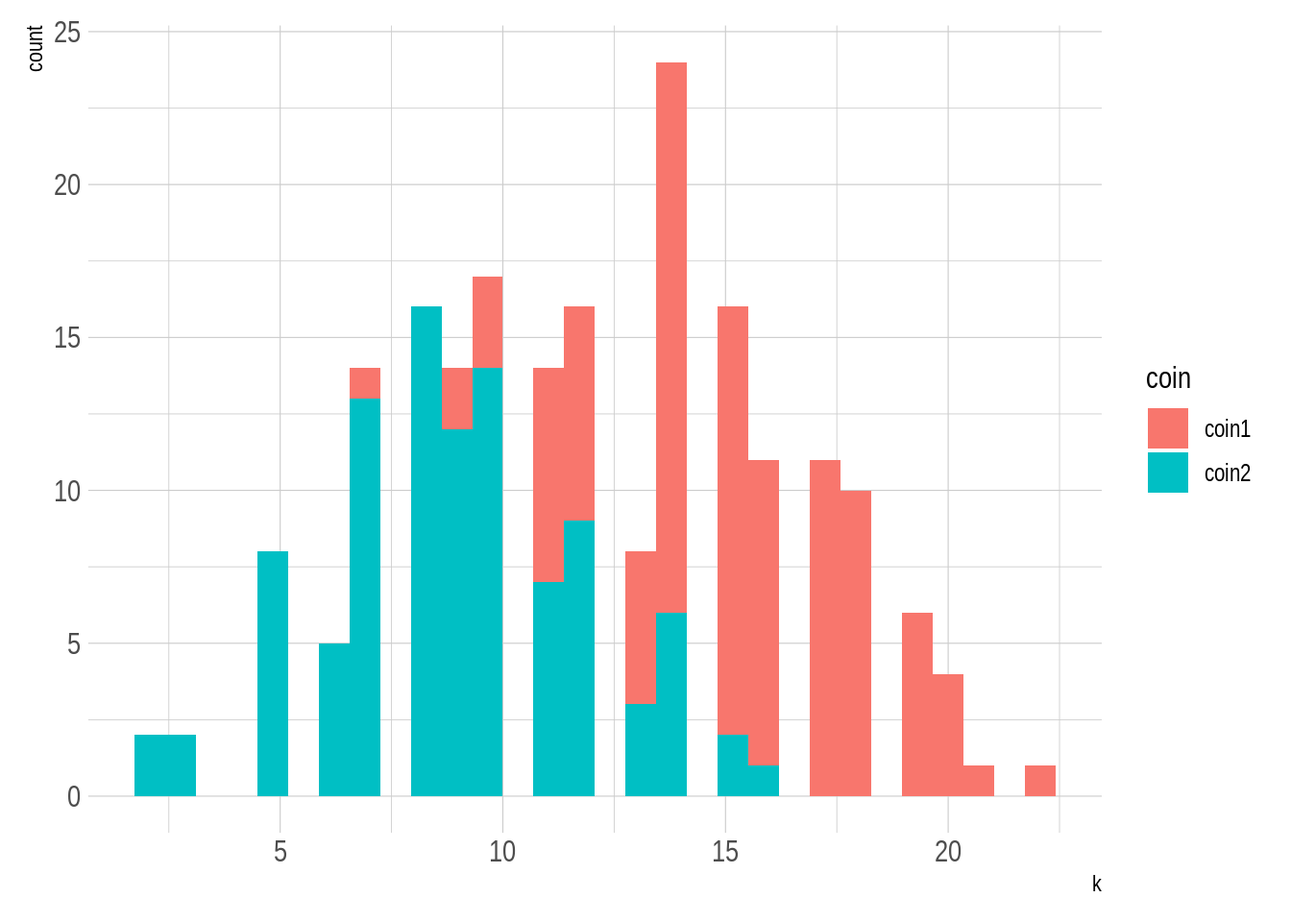
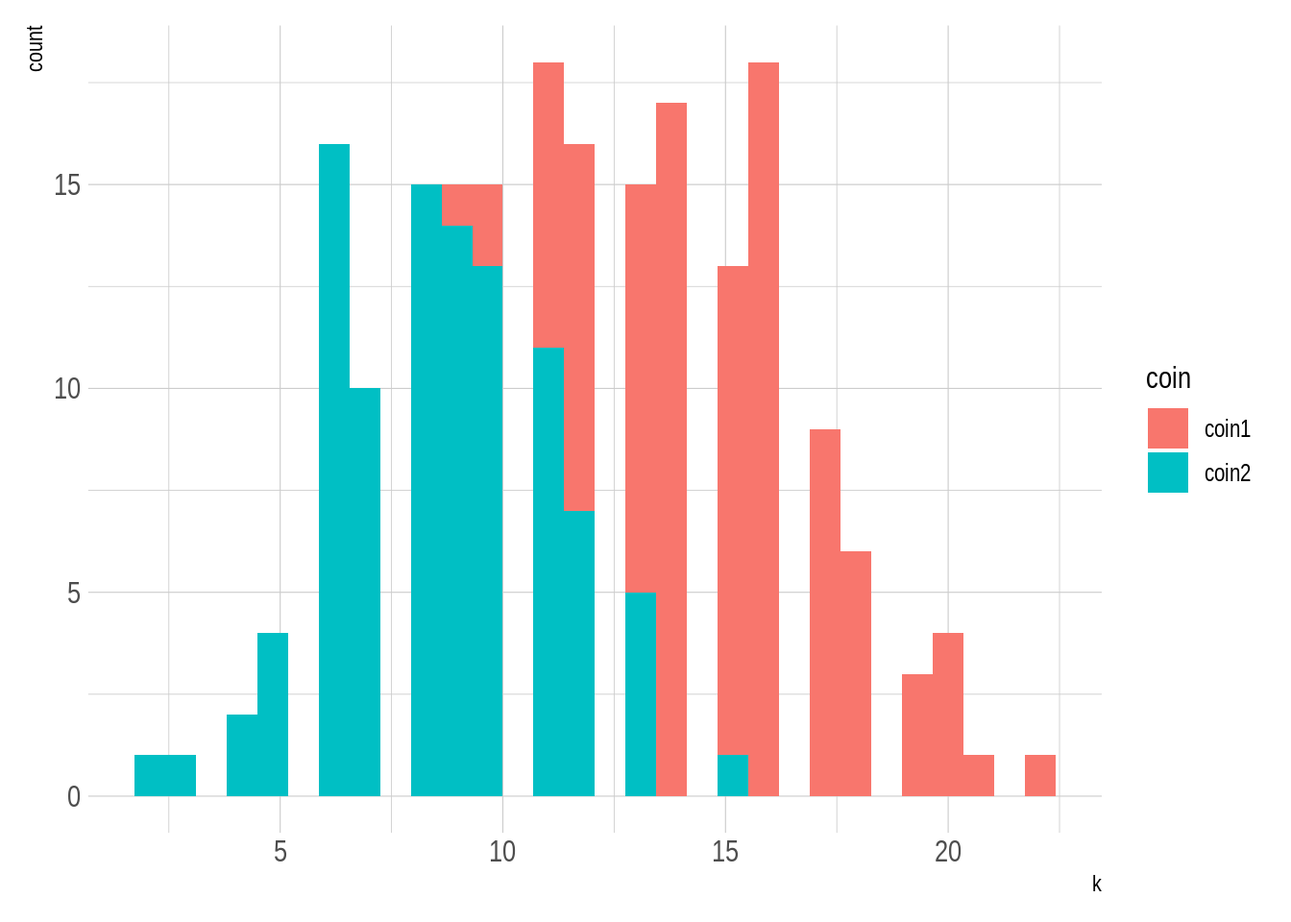
Deploy michael-franke/intro-data-analysis to github.com/michael-franke/intro-data-analysis.git:gh-pages

diff --git a/basics-of-probability-theory.html b/basics-of-probability-theory.html
@@ -144,6 +144,14 @@ code span.wa { color: #bf0303; } /* Warning */
 <li class="chapter" data-level="3" data-path="basics-of-probability-theory.html"><a href="basics-of-probability-theory.html"><i class="fa fa-check"></i><b>3</b> Basics of Probability Theory</a><ul>
 <li class="chapter" data-level="3.1" data-path="basics-of-probability-theory.html"><a href="basics-of-probability-theory.html#probability"><i class="fa fa-check"></i><b>3.1</b> Probability</a><ul>
 <li class="chapter" data-level="3.1.1" data-path="basics-of-probability-theory.html"><a href="basics-of-probability-theory.html#outcomes-events-observations"><i class="fa fa-check"></i><b>3.1.1</b> Outcomes, events, observations</a></li>
+<li class="chapter" data-level="3.1.2" data-path="basics-of-probability-theory.html"><a href="basics-of-probability-theory.html#probability-distributions"><i class="fa fa-check"></i><b>3.1.2</b> Probability distributions</a></li>
+<li class="chapter" data-level="3.1.3" data-path="basics-of-probability-theory.html"><a href="basics-of-probability-theory.html#interpretations-of-probability"><i class="fa fa-check"></i><b>3.1.3</b> Interpretations of probability</a></li>
+<li class="chapter" data-level="3.1.4" data-path="basics-of-probability-theory.html"><a href="basics-of-probability-theory.html#urns-and-frequencies"><i class="fa fa-check"></i><b>3.1.4</b> Urns and frequencies</a></li>
+</ul></li>
+<li class="chapter" data-level="3.2" data-path="basics-of-probability-theory.html"><a href="basics-of-probability-theory.html#structured-events-marginal-distributions"><i class="fa fa-check"></i><b>3.2</b> Structured events &amp; marginal distributions</a><ul>
+<li class="chapter" data-level="3.2.1" data-path="basics-of-probability-theory.html"><a href="basics-of-probability-theory.html#probability-table-for-a-flip--draw-scenario"><i class="fa fa-check"></i><b>3.2.1</b> Probability table for a flip-&amp;-draw scenario</a></li>
+<li class="chapter" data-level="3.2.2" data-path="basics-of-probability-theory.html"><a href="basics-of-probability-theory.html#structured-events-and-joint-probability-distributions"><i class="fa fa-check"></i><b>3.2.2</b> Structured events and joint-probability distributions</a></li>
+<li class="chapter" data-level="3.2.3" data-path="basics-of-probability-theory.html"><a href="basics-of-probability-theory.html#marginalization"><i class="fa fa-check"></i><b>3.2.3</b> Marginalization</a></li>
 </ul></li>
 </ul></li>
 <li class="chapter" data-level="4" data-path="part-4-models.html"><a href="part-4-models.html"><i class="fa fa-check"></i><b>4</b> Part 4: Models</a><ul>
@@ -208,7 +216,7 @@ continuous, expected values &amp; variance, examples.</p>
 <h2><span class="header-section-number">3.1</span> Probability</h2>
 <div id="outcomes-events-observations" class="section level3">
 <h3><span class="header-section-number">3.1.1</span> Outcomes, events, observations</h3>
-<p>We are interested in the space <span class="math inline">\(\Omega\)</span> of all <em>elementary outcome</em> <span class="math inline">\(\omega_1, \omega_2, \dots\)</span> of a process or event whose execution is (partially) random or
+<p>We are interested in the space <span class="math inline">\(\Omega\)</span> of all <strong>elementary outcome</strong> <span class="math inline">\(\omega_1, \omega_2, \dots\)</span> of a process or event whose execution is (partially) random or
 unknown. Elementary outcomes are mutually exclusive. The set <span class="math inline">\(\Omega\)</span> exhausts all
 possibilities.<a href="#fn1" class="footnote-ref" id="fnref1"><sup>1</sup></a></p>
 <div style="background-color:lightgray">
@@ -216,6 +224,119 @@ possibilities.<a href="#fn1" class="footnote-ref" id="fnref1"><sup>1</sup></a></
 <span class="math inline">\(\Omega_{\text{standard die}} = \{\)</span> ⚀ , ⚁ , ⚂ , ⚃ ,
 ⚄ , ⚅ <span class="math inline">\(\}\)</span>.<a href="#fn2" class="footnote-ref" id="fnref2"><sup>2</sup></a></p>
 </div>
+<p>An <strong>event</strong> <span class="math inline">\(A\)</span> is a subset of <span class="math inline">\(\Omega\)</span>. Think of an event as a (possibly partial)
+observation. We might observe, for instance, not the full outcome of tossing a die, but only
+that there is a dot in the middle. This would correspond to the event
+<span class="math inline">\(A = \{\)</span> ⚀ , ⚂ , ⚄ <span class="math inline">\(\}\)</span>,
+i.e., observing an odd numbered outcome. The <em>trivial observation</em> <span class="math inline">\(A = \Omega\)</span> and the
+<em>impossible observation</em> <span class="math inline">\(A = \emptyset\)</span> are counted as events, too. The latter is included for
+technical reasons.</p>
+<p>For any two events <span class="math inline">\(A, B \subseteq \Omega\)</span>, standard set operations correspond to logical
+connections in the usual way. For example, the conjunction <span class="math inline">\(A \cap B\)</span> is the observation of
+both <span class="math inline">\(A\)</span> and <span class="math inline">\(B\)</span>; the disjunction <span class="math inline">\(A \cup B\)</span> is the observation that it is either <span class="math inline">\(A\)</span> or <span class="math inline">\(B\)</span>;
+the negation of <span class="math inline">\(A\)</span>, <span class="math inline">\(\overline{A} = \left \{ \omega \in \Omega \mid \omega \not \in A \right \}\)</span>, is the
+observation that it is not <span class="math inline">\(A\)</span>.</p>
+</div>
+<div id="probability-distributions" class="section level3">
+<h3><span class="header-section-number">3.1.2</span> Probability distributions</h3>
+<p>A <strong>probability distribution</strong> <span class="math inline">\(P\)</span> over <span class="math inline">\(\Omega\)</span> is a function
+<span class="math inline">\(P \ \colon \ \mathfrak{P}(\Omega) \rightarrow \mathbb{R}\)</span> that assigns to all events
+<span class="math inline">\(A \subseteq \Omega\)</span> a real number (from the unit interval, see A1 below), such that the following (so-called Kolmogorov axioms) are satisfied:</p>
+<p>A1. <span class="math inline">\(0 \le P(A) \le 1\)</span></p>
+<p>A2. <span class="math inline">\(P(\Omega) = 1\)</span></p>
+<p>A3. $P(A_1 A_2 A_3 ) = P(A_1) + P(A_2) + P(A_3) + $ whenever <span class="math inline">\(A_1, A_2, A_3, \dots\)</span> are mutually exclusive<a href="#fn3" class="footnote-ref" id="fnref3"><sup>3</sup></a></p>
+<p>Occasionally we encounter notation <span class="math inline">\(P \in \Delta(\Omega)\)</span> to express that <span class="math inline">\(P\)</span> is a probability
+distribution over <span class="math inline">\(\Omega\)</span>. (E.g., in physics, theoretical economics or game
+theory. Less so in psychology or statistics.) If <span class="math inline">\(\omega \in \Omega\)</span> is an elementary event,
+we often write <span class="math inline">\(P(\omega)\)</span> as a shorthand for <span class="math inline">\(P(\left \{ \omega \right \})\)</span>. In fact, if <span class="math inline">\(\Omega\)</span> is
+finite, it suffices to assign probabilities to elementary outcomes.</p>
+<p>A number of rules follow immediately from of this definition (prove this!):</p>
+<p>C1. <span class="math inline">\(P(\emptyset) = 0\)</span></p>
+<p>C2. <span class="math inline">\(P(\overline{A}) = 1 - P(A)\)</span></p>
+<p>C3. <span class="math inline">\(P(A \cup B) = P(A) + P(B) - P(A \cap B)\)</span> for any <span class="math inline">\(A, B \subseteq \Omega\)</span></p>
+</div>
+<div id="interpretations-of-probability" class="section level3">
+<h3><span class="header-section-number">3.1.3</span> Interpretations of probability</h3>
+<p>It is reasonably safe, at least preliminarily, to think of probability, as defined above, as a
+handy mathematical primitive which is useful for certain applications. There are at least three
+ways of thinking about where this primitive probability might come from, roughly paraphrasable
+like so:</p>
+<ol style="list-style-type: decimal">
+<li><strong>Frequentist:</strong> Probabilities are generalizations of intuitions/facts about frequencies of events in
+repeated executions of a random event.</li>
+<li><strong>Subjectivist:</strong> Probabilities are subjective beliefs by a rational agent who is
+uncertain about the outcome of a random event.</li>
+<li><strong>Realist:</strong> Probabilities are a property of an intrinsically random world.</li>
+</ol>
+</div>
+<div id="urns-and-frequencies" class="section level3">
+<h3><span class="header-section-number">3.1.4</span> Urns and frequencies</h3>
+<p>Think of an urn as a container which contains a number of <span class="math inline">\(N &gt; 1\)</span> balls. Balls can be of
+different color. For example, let us suppose that our urn has <span class="math inline">\(k &gt; 0\)</span> black balls and <span class="math inline">\(N-k\)</span>
+white balls. (There is at least one black and one white ball.) For a single random draw from
+our urn we have: <span class="math inline">\(\Omega_{\text{our urn}} = \left \{ \text{white}, \text{black} \right \}\)</span>. If we imagine an
+infinite sequence of single draws from our urn, putting whichever ball we drew back in after
+every draw, the limiting proportion with which we draw a black ball is
+<span class="math inline">\(\frac{k}{N}\)</span>. (If in doubt, execute this experiment. By hand or by computer.) This
+statement about frequency is what motivates saying that the probability of drawing a black ball
+on a single trial is (or should be<a href="#fn4" class="footnote-ref" id="fnref4"><sup>4</sup></a>)
+<span class="math inline">\(P(\text{black}) = \frac{k}{N}\)</span>.</p>
+</div>
+</div>
+<div id="structured-events-marginal-distributions" class="section level2">
+<h2><span class="header-section-number">3.2</span> Structured events &amp; marginal distributions</h2>
+<div id="probability-table-for-a-flip--draw-scenario" class="section level3">
+<h3><span class="header-section-number">3.2.1</span> Probability table for a flip-&amp;-draw scenario</h3>
+<p>Suppose we have two urns. Both have <span class="math inline">\(N=10\)</span> balls. Urn 1 has <span class="math inline">\(k_1=2\)</span> black and <span class="math inline">\(N-k_1 = 8\)</span> white
+balls. Urn 2 has <span class="math inline">\(k_2=4\)</span> black and <span class="math inline">\(N-k_2=6\)</span> white balls. We sometimes draw from urn 1,
+sometimes from urn 2. To decide, we flip a fair coin. If it comes up heads, we draw from urn 1;
+if it comes up tails, we draw from urn 2.</p>
+<p>An elementary outcome of this two-step process of flip-&amp;-draw is a pair
+<span class="math inline">\(\langle \text{outcome-flip}, \text{outcome-draw} \rangle\)</span>. The set of all possible such outcomes is
+<span class="math inline">\(\Omega_{\text{flip-&amp;-draw}} = \left \{ \langle \text{heads}, \text{black} \rangle, \langle \text{heads},  \text{white} \rangle, \langle \text{tails}, \text{black} \rangle, \langle \text{tails},  \text{white} \rangle \right \}\)</span>. The probability of event <span class="math inline">\(\langle \text{heads}, \text{black} \rangle\)</span> is given by
+multiplying the probability of seeing “heads” on the first flip, which happens with
+probability <span class="math inline">\(0.5\)</span>, and then drawing a black ball, which happens with probability <span class="math inline">\(0.2\)</span>, so that
+<span class="math inline">\(P(\langle \text{heads}, \text{black} \rangle) = 0.5 \cdot 0.2 = 0.1\)</span>. The probability distribution
+over <span class="math inline">\(\Omega_{\text{flip-draw}}\)</span> is consequently as in
+Table <a href="basics-of-probability-theory.html#tab:flipdrawprobabilities">3.1</a>. (If in doubt, start flipping &amp;
+drawing and count your outcomes.)</p>
+<table>
+<caption><span id="tab:flipdrawprobabilities">Table 3.1: </span>my first table</caption>
+<thead>
+<tr class="header">
+<th></th>
+<th align="left">black</th>
+<th align="left">white</th>
+</tr>
+</thead>
+<tbody>
+<tr class="odd">
+<td>heads</td>
+<td align="left"><span class="math inline">\(0.5 \cdot 0.2 = 0.1\)</span></td>
+<td align="left"><span class="math inline">\(0.5 \cdot 0.4 = 0.2\)</span></td>
+</tr>
+<tr class="even">
+<td>tails</td>
+<td align="left"><span class="math inline">\(0.5 \cdot 0.8 = 0.4\)</span></td>
+<td align="left"><span class="math inline">\(0.5 \cdot 0.6 = 0.3\)</span></td>
+</tr>
+</tbody>
+</table>
+</div>
+<div id="structured-events-and-joint-probability-distributions" class="section level3">
+<h3><span class="header-section-number">3.2.2</span> Structured events and joint-probability distributions</h3>
+<p>Table <a href="basics-of-probability-theory.html#tab:flipdrawprobabilities">3.1</a> is an example of a <strong>joint probability distribution</strong> over a structured event space, which here has two dimensions. Since
+our space of outcomes is the Cartesian product of two simpler outcome spaces, namely
+<span class="math inline">\(\Omega_{flip-\&amp;-draw} = \Omega_{flip} \times \Omega_{draw}\)</span>,<a href="#fn5" class="footnote-ref" id="fnref5"><sup>5</sup></a> we can use notation
+<span class="math inline">\(P(\text{heads}, \text{black})\)</span> as shorthand for <span class="math inline">\(P(\langle \text{heads}, \text{black} \rangle)\)</span>. More
+generally, if <span class="math inline">\(\Omega = \Omega_1 \times \dots \Omega_n\)</span>, we can think of <span class="math inline">\(P \in \Delta(\Omega)\)</span>
+as a joint probability distribution over <span class="math inline">\(n\)</span> subspaces.</p>
+</div>
+<div id="marginalization" class="section level3">
+<h3><span class="header-section-number">3.2.3</span> Marginalization</h3>
+<p>If <span class="math inline">\(P\)</span> is a joint-probability distribution over event space <span class="math inline">\(\Omega = \Omega_1 \times \dots \Omega_n\)</span>, the <strong>marginal distribution</strong> over subspace <span class="math inline">\(\Omega_i\)</span>, <span class="math inline">\(1 \le i \le n\)</span> is the probability distribution that assigns to all <span class="math inline">\(A_i \subseteq \Omega_i\)</span> the probability:<a href="#fn6" class="footnote-ref" id="fnref6"><sup>6</sup></a></p>
+<p><span class="math display">\[  P(A_i) = \sum_{A_1 \subseteq \Omega_{1}, \dots , A_{i-1} \subseteq \Omega_{i-1}, A_{i+1} \subseteq \Omega_{i+1}, \dots, A_n \subseteq \Omega_n} P(A_1, \dots, A_{i-1}, A_{i}, A_{i+1}, \dots A_n) \]</span></p>
+<p>For example, the marginal distribution over coin flips derivable from the joint probability distribution in Table <a href="basics-of-probability-theory.html#tab:flipdrawprobabilities">3.1</a> gives <span class="math inline">\(P(\text{heads}) = P(\text{tails}) = 0.5\)</span>, since the sum of each row is exactly <span class="math inline">\(0.5\)</span>. The marginal distribution over flips derivable from Table~ has <span class="math inline">\(P(\text{black}) = 0.3\)</span> and <span class="math inline">\(P(\text{black}) = 0.7\)</span>.<a href="#fn7" class="footnote-ref" id="fnref7"><sup>7</sup></a></p>
 
 </div>
 </div>
@@ -234,6 +355,14 @@ interested in. We do not care whether the coin lands in the mud or in the sand. 
 matters whether it came up heads or tails. Each elementary event can be realized in myriad
 ways. <span class="math inline">\(\Omega\)</span> is our, the modellers’, first crude simplification of nature, abstracting away aspects we
 currently do not care about.<a href="basics-of-probability-theory.html#fnref2" class="footnote-back">↩</a></p></li>
+<li id="fn3"><p>A3 is the axiom of <em>countable additivity</em>. Finite additivity may be enough for finite or countable sets <span class="math inline">\(\Omega\)</span>, but infinite additivity is necessary for full generality in the uncountable case.<a href="basics-of-probability-theory.html#fnref3" class="footnote-back">↩</a></p></li>
+<li id="fn4"><p>If probabilities are subjective beliefs, a rational
+agent is, in a sense, normatively required to assign exactly this probability.<a href="basics-of-probability-theory.html#fnref4" class="footnote-back">↩</a></p></li>
+<li id="fn5"><p>With
+<span class="math inline">\(\Omega_{\text{flip}} = \left \{ \text{heads}, \text{tails} \right \}\)</span> and
+<span class="math inline">\(\Omega_{\text{draw}} = \left \{ \text{black}, \text{white} \right \}\)</span>.<a href="basics-of-probability-theory.html#fnref5" class="footnote-back">↩</a></p></li>
+<li id="fn6"><p>This notation, using <span class="math inline">\(\sum\)</span>, assumes that subspaces are countable. In other cases, a parallel definition with integrals can be used.<a href="basics-of-probability-theory.html#fnref6" class="footnote-back">↩</a></p></li>
+<li id="fn7"><p>The term ``marginal distribution’’ derives from such probability tables, where traditionally the sum of each row/column was written in the margins.<a href="basics-of-probability-theory.html#fnref7" class="footnote-back">↩</a></p></li>
 </ol>
 </div>
             </section>

diff --git a/part-4-models.html b/part-4-models.html
@@ -144,6 +144,14 @@ code span.wa { color: #bf0303; } /* Warning */
 <li class="chapter" data-level="3" data-path="basics-of-probability-theory.html"><a href="basics-of-probability-theory.html"><i class="fa fa-check"></i><b>3</b> Basics of Probability Theory</a><ul>
 <li class="chapter" data-level="3.1" data-path="basics-of-probability-theory.html"><a href="basics-of-probability-theory.html#probability"><i class="fa fa-check"></i><b>3.1</b> Probability</a><ul>
 <li class="chapter" data-level="3.1.1" data-path="basics-of-probability-theory.html"><a href="basics-of-probability-theory.html#outcomes-events-observations"><i class="fa fa-check"></i><b>3.1.1</b> Outcomes, events, observations</a></li>
+<li class="chapter" data-level="3.1.2" data-path="basics-of-probability-theory.html"><a href="basics-of-probability-theory.html#probability-distributions"><i class="fa fa-check"></i><b>3.1.2</b> Probability distributions</a></li>
+<li class="chapter" data-level="3.1.3" data-path="basics-of-probability-theory.html"><a href="basics-of-probability-theory.html#interpretations-of-probability"><i class="fa fa-check"></i><b>3.1.3</b> Interpretations of probability</a></li>
+<li class="chapter" data-level="3.1.4" data-path="basics-of-probability-theory.html"><a href="basics-of-probability-theory.html#urns-and-frequencies"><i class="fa fa-check"></i><b>3.1.4</b> Urns and frequencies</a></li>
+</ul></li>
+<li class="chapter" data-level="3.2" data-path="basics-of-probability-theory.html"><a href="basics-of-probability-theory.html#structured-events-marginal-distributions"><i class="fa fa-check"></i><b>3.2</b> Structured events &amp; marginal distributions</a><ul>
+<li class="chapter" data-level="3.2.1" data-path="basics-of-probability-theory.html"><a href="basics-of-probability-theory.html#probability-table-for-a-flip--draw-scenario"><i class="fa fa-check"></i><b>3.2.1</b> Probability table for a flip-&amp;-draw scenario</a></li>
+<li class="chapter" data-level="3.2.2" data-path="basics-of-probability-theory.html"><a href="basics-of-probability-theory.html#structured-events-and-joint-probability-distributions"><i class="fa fa-check"></i><b>3.2.2</b> Structured events and joint-probability distributions</a></li>
+<li class="chapter" data-level="3.2.3" data-path="basics-of-probability-theory.html"><a href="basics-of-probability-theory.html#marginalization"><i class="fa fa-check"></i><b>3.2.3</b> Marginalization</a></li>
 </ul></li>
 </ul></li>
 <li class="chapter" data-level="4" data-path="part-4-models.html"><a href="part-4-models.html"><i class="fa fa-check"></i><b>4</b> Part 4: Models</a><ul>
@@ -298,15 +306,15 @@ A prior is a initial probability assignment for each possible value of the param
 <pre><code>## # A tibble: 10 x 3
 ##        n     k     x
 ##    &lt;dbl&gt; &lt;dbl&gt; &lt;dbl&gt;
-##  1     1    13    30
-##  2     2    16    30
-##  3     3    12    30
-##  4     4    16    30
-##  5     5    15    30
-##  6     6    14    30
-##  7     7    18    30
-##  8     8    13    30
-##  9     9    19    30
+##  1     1    12    30
+##  2     2    12    30
+##  3     3    16    30
+##  4     4    18    30
+##  5     5    17    30
+##  6     6    13    30
+##  7     7    13    30
+##  8     8    14    30
+##  9     9    11    30
 ## 10    10    16    30</code></pre>
 <p>The above table shows the observed outcome, but how the underlying probability of coming up  can be derived from that data set?</p>
 </div>
@@ -475,16 +483,16 @@ Consider now, that a second coin <span class="math inline">\(y_2\)</span> is int
 <pre><code>## # A tibble: 200 x 4
 ##    coin      n     k     x
 ##    &lt;chr&gt; &lt;dbl&gt; &lt;dbl&gt; &lt;dbl&gt;
-##  1 coin1     1    20    30
-##  2 coin1     2    14    30
-##  3 coin1     3    17    30
-##  4 coin1     4    19    30
-##  5 coin1     5    17    30
-##  6 coin1     6    10    30
-##  7 coin1     7    14    30
-##  8 coin1     8    14    30
-##  9 coin1     9    16    30
-## 10 coin1    10    19    30
+##  1 coin1     1    13    30
+##  2 coin1     2    19    30
+##  3 coin1     3     9    30
+##  4 coin1     4    15    30
+##  5 coin1     5    15    30
+##  6 coin1     6    16    30
+##  7 coin1     7    18    30
+##  8 coin1     8    15    30
+##  9 coin1     9    18    30
+## 10 coin1    10    18    30
 ## # … with 190 more rows</code></pre>
 <div class="sourceCode" id="cb9"><pre class="sourceCode r"><code class="sourceCode r"><a class="sourceLine" id="cb9-1" data-line-number="1"><span class="co">#Plotting the observed results</span></a>
 <a class="sourceLine" id="cb9-2" data-line-number="2"><span class="kw">ggplot</span>(<span class="dt">data=</span>coin.flip2,<span class="dt">mapping =</span> <span class="kw">aes</span>(<span class="dt">x=</span>k, <span class="dt">fill=</span>coin ))<span class="op">+</span></a>

diff --git a/index.html b/index.html
@@ -144,6 +144,14 @@ code span.wa { color: #bf0303; } /* Warning */
 <li class="chapter" data-level="3" data-path="basics-of-probability-theory.html"><a href="basics-of-probability-theory.html"><i class="fa fa-check"></i><b>3</b> Basics of Probability Theory</a><ul>
 <li class="chapter" data-level="3.1" data-path="basics-of-probability-theory.html"><a href="basics-of-probability-theory.html#probability"><i class="fa fa-check"></i><b>3.1</b> Probability</a><ul>
 <li class="chapter" data-level="3.1.1" data-path="basics-of-probability-theory.html"><a href="basics-of-probability-theory.html#outcomes-events-observations"><i class="fa fa-check"></i><b>3.1.1</b> Outcomes, events, observations</a></li>
+<li class="chapter" data-level="3.1.2" data-path="basics-of-probability-theory.html"><a href="basics-of-probability-theory.html#probability-distributions"><i class="fa fa-check"></i><b>3.1.2</b> Probability distributions</a></li>
+<li class="chapter" data-level="3.1.3" data-path="basics-of-probability-theory.html"><a href="basics-of-probability-theory.html#interpretations-of-probability"><i class="fa fa-check"></i><b>3.1.3</b> Interpretations of probability</a></li>
+<li class="chapter" data-level="3.1.4" data-path="basics-of-probability-theory.html"><a href="basics-of-probability-theory.html#urns-and-frequencies"><i class="fa fa-check"></i><b>3.1.4</b> Urns and frequencies</a></li>
+</ul></li>
+<li class="chapter" data-level="3.2" data-path="basics-of-probability-theory.html"><a href="basics-of-probability-theory.html#structured-events-marginal-distributions"><i class="fa fa-check"></i><b>3.2</b> Structured events &amp; marginal distributions</a><ul>
+<li class="chapter" data-level="3.2.1" data-path="basics-of-probability-theory.html"><a href="basics-of-probability-theory.html#probability-table-for-a-flip--draw-scenario"><i class="fa fa-check"></i><b>3.2.1</b> Probability table for a flip-&amp;-draw scenario</a></li>
+<li class="chapter" data-level="3.2.2" data-path="basics-of-probability-theory.html"><a href="basics-of-probability-theory.html#structured-events-and-joint-probability-distributions"><i class="fa fa-check"></i><b>3.2.2</b> Structured events and joint-probability distributions</a></li>
+<li class="chapter" data-level="3.2.3" data-path="basics-of-probability-theory.html"><a href="basics-of-probability-theory.html#marginalization"><i class="fa fa-check"></i><b>3.2.3</b> Marginalization</a></li>
 </ul></li>
 </ul></li>
 <li class="chapter" data-level="4" data-path="part-4-models.html"><a href="part-4-models.html"><i class="fa fa-check"></i><b>4</b> Part 4: Models</a><ul>
@@ -200,7 +208,7 @@ code span.wa { color: #bf0303; } /* Warning */
             <section class="normal" id="section-">
 <div id="header">
 <h1 class="title">Introduction to Data Analysis</h1>
-<p class="date"><em>last rendered at: 2019-09-20 19:53:59</em></p>
+<p class="date"><em>last rendered at: 2019-09-21 14:30:19</em></p>
 </div>
 <div id="preface" class="section level1 unnumbered">
 <h1>Preface</h1>

diff --git a/references.html b/references.html
@@ -144,6 +144,14 @@ code span.wa { color: #bf0303; } /* Warning */
 <li class="chapter" data-level="3" data-path="basics-of-probability-theory.html"><a href="basics-of-probability-theory.html"><i class="fa fa-check"></i><b>3</b> Basics of Probability Theory</a><ul>
 <li class="chapter" data-level="3.1" data-path="basics-of-probability-theory.html"><a href="basics-of-probability-theory.html#probability"><i class="fa fa-check"></i><b>3.1</b> Probability</a><ul>
 <li class="chapter" data-level="3.1.1" data-path="basics-of-probability-theory.html"><a href="basics-of-probability-theory.html#outcomes-events-observations"><i class="fa fa-check"></i><b>3.1.1</b> Outcomes, events, observations</a></li>
+<li class="chapter" data-level="3.1.2" data-path="basics-of-probability-theory.html"><a href="basics-of-probability-theory.html#probability-distributions"><i class="fa fa-check"></i><b>3.1.2</b> Probability distributions</a></li>
+<li class="chapter" data-level="3.1.3" data-path="basics-of-probability-theory.html"><a href="basics-of-probability-theory.html#interpretations-of-probability"><i class="fa fa-check"></i><b>3.1.3</b> Interpretations of probability</a></li>
+<li class="chapter" data-level="3.1.4" data-path="basics-of-probability-theory.html"><a href="basics-of-probability-theory.html#urns-and-frequencies"><i class="fa fa-check"></i><b>3.1.4</b> Urns and frequencies</a></li>
+</ul></li>
+<li class="chapter" data-level="3.2" data-path="basics-of-probability-theory.html"><a href="basics-of-probability-theory.html#structured-events-marginal-distributions"><i class="fa fa-check"></i><b>3.2</b> Structured events &amp; marginal distributions</a><ul>
+<li class="chapter" data-level="3.2.1" data-path="basics-of-probability-theory.html"><a href="basics-of-probability-theory.html#probability-table-for-a-flip--draw-scenario"><i class="fa fa-check"></i><b>3.2.1</b> Probability table for a flip-&amp;-draw scenario</a></li>
+<li class="chapter" data-level="3.2.2" data-path="basics-of-probability-theory.html"><a href="basics-of-probability-theory.html#structured-events-and-joint-probability-distributions"><i class="fa fa-check"></i><b>3.2.2</b> Structured events and joint-probability distributions</a></li>
+<li class="chapter" data-level="3.2.3" data-path="basics-of-probability-theory.html"><a href="basics-of-probability-theory.html#marginalization"><i class="fa fa-check"></i><b>3.2.3</b> Marginalization</a></li>
 </ul></li>
 </ul></li>
 <li class="chapter" data-level="4" data-path="part-4-models.html"><a href="part-4-models.html"><i class="fa fa-check"></i><b>4</b> Part 4: Models</a><ul>
@@ -225,6 +233,14 @@ code span.wa { color: #bf0303; } /* Warning */
 </div>
 </div>
 </div>
+
+
+
+
+
+
+
+
 
 
 

diff --git a/data.html b/data.html
@@ -144,6 +144,14 @@ code span.wa { color: #bf0303; } /* Warning */
 <li class="chapter" data-level="3" data-path="basics-of-probability-theory.html"><a href="basics-of-probability-theory.html"><i class="fa fa-check"></i><b>3</b> Basics of Probability Theory</a><ul>
 <li class="chapter" data-level="3.1" data-path="basics-of-probability-theory.html"><a href="basics-of-probability-theory.html#probability"><i class="fa fa-check"></i><b>3.1</b> Probability</a><ul>
 <li class="chapter" data-level="3.1.1" data-path="basics-of-probability-theory.html"><a href="basics-of-probability-theory.html#outcomes-events-observations"><i class="fa fa-check"></i><b>3.1.1</b> Outcomes, events, observations</a></li>
+<li class="chapter" data-level="3.1.2" data-path="basics-of-probability-theory.html"><a href="basics-of-probability-theory.html#probability-distributions"><i class="fa fa-check"></i><b>3.1.2</b> Probability distributions</a></li>
+<li class="chapter" data-level="3.1.3" data-path="basics-of-probability-theory.html"><a href="basics-of-probability-theory.html#interpretations-of-probability"><i class="fa fa-check"></i><b>3.1.3</b> Interpretations of probability</a></li>
+<li class="chapter" data-level="3.1.4" data-path="basics-of-probability-theory.html"><a href="basics-of-probability-theory.html#urns-and-frequencies"><i class="fa fa-check"></i><b>3.1.4</b> Urns and frequencies</a></li>
+</ul></li>
+<li class="chapter" data-level="3.2" data-path="basics-of-probability-theory.html"><a href="basics-of-probability-theory.html#structured-events-marginal-distributions"><i class="fa fa-check"></i><b>3.2</b> Structured events &amp; marginal distributions</a><ul>
+<li class="chapter" data-level="3.2.1" data-path="basics-of-probability-theory.html"><a href="basics-of-probability-theory.html#probability-table-for-a-flip--draw-scenario"><i class="fa fa-check"></i><b>3.2.1</b> Probability table for a flip-&amp;-draw scenario</a></li>
+<li class="chapter" data-level="3.2.2" data-path="basics-of-probability-theory.html"><a href="basics-of-probability-theory.html#structured-events-and-joint-probability-distributions"><i class="fa fa-check"></i><b>3.2.2</b> Structured events and joint-probability distributions</a></li>
+<li class="chapter" data-level="3.2.3" data-path="basics-of-probability-theory.html"><a href="basics-of-probability-theory.html#marginalization"><i class="fa fa-check"></i><b>3.2.3</b> Marginalization</a></li>
 </ul></li>
 </ul></li>
 <li class="chapter" data-level="4" data-path="part-4-models.html"><a href="part-4-models.html"><i class="fa fa-check"></i><b>4</b> Part 4: Models</a><ul>

diff --git a/general-introduction.html b/general-introduction.html
@@ -144,6 +144,14 @@ code span.wa { color: #bf0303; } /* Warning */
 <li class="chapter" data-level="3" data-path="basics-of-probability-theory.html"><a href="basics-of-probability-theory.html"><i class="fa fa-check"></i><b>3</b> Basics of Probability Theory</a><ul>
 <li class="chapter" data-level="3.1" data-path="basics-of-probability-theory.html"><a href="basics-of-probability-theory.html#probability"><i class="fa fa-check"></i><b>3.1</b> Probability</a><ul>
 <li class="chapter" data-level="3.1.1" data-path="basics-of-probability-theory.html"><a href="basics-of-probability-theory.html#outcomes-events-observations"><i class="fa fa-check"></i><b>3.1.1</b> Outcomes, events, observations</a></li>
+<li class="chapter" data-level="3.1.2" data-path="basics-of-probability-theory.html"><a href="basics-of-probability-theory.html#probability-distributions"><i class="fa fa-check"></i><b>3.1.2</b> Probability distributions</a></li>
+<li class="chapter" data-level="3.1.3" data-path="basics-of-probability-theory.html"><a href="basics-of-probability-theory.html#interpretations-of-probability"><i class="fa fa-check"></i><b>3.1.3</b> Interpretations of probability</a></li>
+<li class="chapter" data-level="3.1.4" data-path="basics-of-probability-theory.html"><a href="basics-of-probability-theory.html#urns-and-frequencies"><i class="fa fa-check"></i><b>3.1.4</b> Urns and frequencies</a></li>
+</ul></li>
+<li class="chapter" data-level="3.2" data-path="basics-of-probability-theory.html"><a href="basics-of-probability-theory.html#structured-events-marginal-distributions"><i class="fa fa-check"></i><b>3.2</b> Structured events &amp; marginal distributions</a><ul>
+<li class="chapter" data-level="3.2.1" data-path="basics-of-probability-theory.html"><a href="basics-of-probability-theory.html#probability-table-for-a-flip--draw-scenario"><i class="fa fa-check"></i><b>3.2.1</b> Probability table for a flip-&amp;-draw scenario</a></li>
+<li class="chapter" data-level="3.2.2" data-path="basics-of-probability-theory.html"><a href="basics-of-probability-theory.html#structured-events-and-joint-probability-distributions"><i class="fa fa-check"></i><b>3.2.2</b> Structured events and joint-probability distributions</a></li>
+<li class="chapter" data-level="3.2.3" data-path="basics-of-probability-theory.html"><a href="basics-of-probability-theory.html#marginalization"><i class="fa fa-check"></i><b>3.2.3</b> Marginalization</a></li>
 </ul></li>
 </ul></li>
 <li class="chapter" data-level="4" data-path="part-4-models.html"><a href="part-4-models.html"><i class="fa fa-check"></i><b>4</b> Part 4: Models</a><ul>

diff --git a/generalized-regression-modeling.html b/generalized-regression-modeling.html
@@ -144,6 +144,14 @@ code span.wa { color: #bf0303; } /* Warning */
 <li class="chapter" data-level="3" data-path="basics-of-probability-theory.html"><a href="basics-of-probability-theory.html"><i class="fa fa-check"></i><b>3</b> Basics of Probability Theory</a><ul>
 <li class="chapter" data-level="3.1" data-path="basics-of-probability-theory.html"><a href="basics-of-probability-theory.html#probability"><i class="fa fa-check"></i><b>3.1</b> Probability</a><ul>
 <li class="chapter" data-level="3.1.1" data-path="basics-of-probability-theory.html"><a href="basics-of-probability-theory.html#outcomes-events-observations"><i class="fa fa-check"></i><b>3.1.1</b> Outcomes, events, observations</a></li>
+<li class="chapter" data-level="3.1.2" data-path="basics-of-probability-theory.html"><a href="basics-of-probability-theory.html#probability-distributions"><i class="fa fa-check"></i><b>3.1.2</b> Probability distributions</a></li>
+<li class="chapter" data-level="3.1.3" data-path="basics-of-probability-theory.html"><a href="basics-of-probability-theory.html#interpretations-of-probability"><i class="fa fa-check"></i><b>3.1.3</b> Interpretations of probability</a></li>
+<li class="chapter" data-level="3.1.4" data-path="basics-of-probability-theory.html"><a href="basics-of-probability-theory.html#urns-and-frequencies"><i class="fa fa-check"></i><b>3.1.4</b> Urns and frequencies</a></li>
+</ul></li>
+<li class="chapter" data-level="3.2" data-path="basics-of-probability-theory.html"><a href="basics-of-probability-theory.html#structured-events-marginal-distributions"><i class="fa fa-check"></i><b>3.2</b> Structured events &amp; marginal distributions</a><ul>
+<li class="chapter" data-level="3.2.1" data-path="basics-of-probability-theory.html"><a href="basics-of-probability-theory.html#probability-table-for-a-flip--draw-scenario"><i class="fa fa-check"></i><b>3.2.1</b> Probability table for a flip-&amp;-draw scenario</a></li>
+<li class="chapter" data-level="3.2.2" data-path="basics-of-probability-theory.html"><a href="basics-of-probability-theory.html#structured-events-and-joint-probability-distributions"><i class="fa fa-check"></i><b>3.2.2</b> Structured events and joint-probability distributions</a></li>
+<li class="chapter" data-level="3.2.3" data-path="basics-of-probability-theory.html"><a href="basics-of-probability-theory.html#marginalization"><i class="fa fa-check"></i><b>3.2.3</b> Marginalization</a></li>
 </ul></li>
 </ul></li>
 <li class="chapter" data-level="4" data-path="part-4-models.html"><a href="part-4-models.html"><i class="fa fa-check"></i><b>4</b> Part 4: Models</a><ul>

diff --git a/hypothesis-testing.html b/hypothesis-testing.html
@@ -144,6 +144,14 @@ code span.wa { color: #bf0303; } /* Warning */
 <li class="chapter" data-level="3" data-path="basics-of-probability-theory.html"><a href="basics-of-probability-theory.html"><i class="fa fa-check"></i><b>3</b> Basics of Probability Theory</a><ul>
 <li class="chapter" data-level="3.1" data-path="basics-of-probability-theory.html"><a href="basics-of-probability-theory.html#probability"><i class="fa fa-check"></i><b>3.1</b> Probability</a><ul>
 <li class="chapter" data-level="3.1.1" data-path="basics-of-probability-theory.html"><a href="basics-of-probability-theory.html#outcomes-events-observations"><i class="fa fa-check"></i><b>3.1.1</b> Outcomes, events, observations</a></li>
+<li class="chapter" data-level="3.1.2" data-path="basics-of-probability-theory.html"><a href="basics-of-probability-theory.html#probability-distributions"><i class="fa fa-check"></i><b>3.1.2</b> Probability distributions</a></li>
+<li class="chapter" data-level="3.1.3" data-path="basics-of-probability-theory.html"><a href="basics-of-probability-theory.html#interpretations-of-probability"><i class="fa fa-check"></i><b>3.1.3</b> Interpretations of probability</a></li>
+<li class="chapter" data-level="3.1.4" data-path="basics-of-probability-theory.html"><a href="basics-of-probability-theory.html#urns-and-frequencies"><i class="fa fa-check"></i><b>3.1.4</b> Urns and frequencies</a></li>
+</ul></li>
+<li class="chapter" data-level="3.2" data-path="basics-of-probability-theory.html"><a href="basics-of-probability-theory.html#structured-events-marginal-distributions"><i class="fa fa-check"></i><b>3.2</b> Structured events &amp; marginal distributions</a><ul>
+<li class="chapter" data-level="3.2.1" data-path="basics-of-probability-theory.html"><a href="basics-of-probability-theory.html#probability-table-for-a-flip--draw-scenario"><i class="fa fa-check"></i><b>3.2.1</b> Probability table for a flip-&amp;-draw scenario</a></li>
+<li class="chapter" data-level="3.2.2" data-path="basics-of-probability-theory.html"><a href="basics-of-probability-theory.html#structured-events-and-joint-probability-distributions"><i class="fa fa-check"></i><b>3.2.2</b> Structured events and joint-probability distributions</a></li>
+<li class="chapter" data-level="3.2.3" data-path="basics-of-probability-theory.html"><a href="basics-of-probability-theory.html#marginalization"><i class="fa fa-check"></i><b>3.2.3</b> Marginalization</a></li>
 </ul></li>
 </ul></li>
 <li class="chapter" data-level="4" data-path="part-4-models.html"><a href="part-4-models.html"><i class="fa fa-check"></i><b>4</b> Part 4: Models</a><ul>

diff --git a/inference.html b/inference.html
@@ -144,6 +144,14 @@ code span.wa { color: #bf0303; } /* Warning */
 <li class="chapter" data-level="3" data-path="basics-of-probability-theory.html"><a href="basics-of-probability-theory.html"><i class="fa fa-check"></i><b>3</b> Basics of Probability Theory</a><ul>
 <li class="chapter" data-level="3.1" data-path="basics-of-probability-theory.html"><a href="basics-of-probability-theory.html#probability"><i class="fa fa-check"></i><b>3.1</b> Probability</a><ul>
 <li class="chapter" data-level="3.1.1" data-path="basics-of-probability-theory.html"><a href="basics-of-probability-theory.html#outcomes-events-observations"><i class="fa fa-check"></i><b>3.1.1</b> Outcomes, events, observations</a></li>
+<li class="chapter" data-level="3.1.2" data-path="basics-of-probability-theory.html"><a href="basics-of-probability-theory.html#probability-distributions"><i class="fa fa-check"></i><b>3.1.2</b> Probability distributions</a></li>
+<li class="chapter" data-level="3.1.3" data-path="basics-of-probability-theory.html"><a href="basics-of-probability-theory.html#interpretations-of-probability"><i class="fa fa-check"></i><b>3.1.3</b> Interpretations of probability</a></li>
+<li class="chapter" data-level="3.1.4" data-path="basics-of-probability-theory.html"><a href="basics-of-probability-theory.html#urns-and-frequencies"><i class="fa fa-check"></i><b>3.1.4</b> Urns and frequencies</a></li>
+</ul></li>
+<li class="chapter" data-level="3.2" data-path="basics-of-probability-theory.html"><a href="basics-of-probability-theory.html#structured-events-marginal-distributions"><i class="fa fa-check"></i><b>3.2</b> Structured events &amp; marginal distributions</a><ul>
+<li class="chapter" data-level="3.2.1" data-path="basics-of-probability-theory.html"><a href="basics-of-probability-theory.html#probability-table-for-a-flip--draw-scenario"><i class="fa fa-check"></i><b>3.2.1</b> Probability table for a flip-&amp;-draw scenario</a></li>
+<li class="chapter" data-level="3.2.2" data-path="basics-of-probability-theory.html"><a href="basics-of-probability-theory.html#structured-events-and-joint-probability-distributions"><i class="fa fa-check"></i><b>3.2.2</b> Structured events and joint-probability distributions</a></li>
+<li class="chapter" data-level="3.2.3" data-path="basics-of-probability-theory.html"><a href="basics-of-probability-theory.html#marginalization"><i class="fa fa-check"></i><b>3.2.3</b> Marginalization</a></li>
 </ul></li>
 </ul></li>
 <li class="chapter" data-level="4" data-path="part-4-models.html"><a href="part-4-models.html"><i class="fa fa-check"></i><b>4</b> Part 4: Models</a><ul>

diff --git a/model-comparison.html b/model-comparison.html
@@ -144,6 +144,14 @@ code span.wa { color: #bf0303; } /* Warning */
 <li class="chapter" data-level="3" data-path="basics-of-probability-theory.html"><a href="basics-of-probability-theory.html"><i class="fa fa-check"></i><b>3</b> Basics of Probability Theory</a><ul>
 <li class="chapter" data-level="3.1" data-path="basics-of-probability-theory.html"><a href="basics-of-probability-theory.html#probability"><i class="fa fa-check"></i><b>3.1</b> Probability</a><ul>
 <li class="chapter" data-level="3.1.1" data-path="basics-of-probability-theory.html"><a href="basics-of-probability-theory.html#outcomes-events-observations"><i class="fa fa-check"></i><b>3.1.1</b> Outcomes, events, observations</a></li>
+<li class="chapter" data-level="3.1.2" data-path="basics-of-probability-theory.html"><a href="basics-of-probability-theory.html#probability-distributions"><i class="fa fa-check"></i><b>3.1.2</b> Probability distributions</a></li>
+<li class="chapter" data-level="3.1.3" data-path="basics-of-probability-theory.html"><a href="basics-of-probability-theory.html#interpretations-of-probability"><i class="fa fa-check"></i><b>3.1.3</b> Interpretations of probability</a></li>
+<li class="chapter" data-level="3.1.4" data-path="basics-of-probability-theory.html"><a href="basics-of-probability-theory.html#urns-and-frequencies"><i class="fa fa-check"></i><b>3.1.4</b> Urns and frequencies</a></li>
+</ul></li>
+<li class="chapter" data-level="3.2" data-path="basics-of-probability-theory.html"><a href="basics-of-probability-theory.html#structured-events-marginal-distributions"><i class="fa fa-check"></i><b>3.2</b> Structured events &amp; marginal distributions</a><ul>
+<li class="chapter" data-level="3.2.1" data-path="basics-of-probability-theory.html"><a href="basics-of-probability-theory.html#probability-table-for-a-flip--draw-scenario"><i class="fa fa-check"></i><b>3.2.1</b> Probability table for a flip-&amp;-draw scenario</a></li>
+<li class="chapter" data-level="3.2.2" data-path="basics-of-probability-theory.html"><a href="basics-of-probability-theory.html#structured-events-and-joint-probability-distributions"><i class="fa fa-check"></i><b>3.2.2</b> Structured events and joint-probability distributions</a></li>
+<li class="chapter" data-level="3.2.3" data-path="basics-of-probability-theory.html"><a href="basics-of-probability-theory.html#marginalization"><i class="fa fa-check"></i><b>3.2.3</b> Marginalization</a></li>
 </ul></li>
 </ul></li>
 <li class="chapter" data-level="4" data-path="part-4-models.html"><a href="part-4-models.html"><i class="fa fa-check"></i><b>4</b> Part 4: Models</a><ul>
